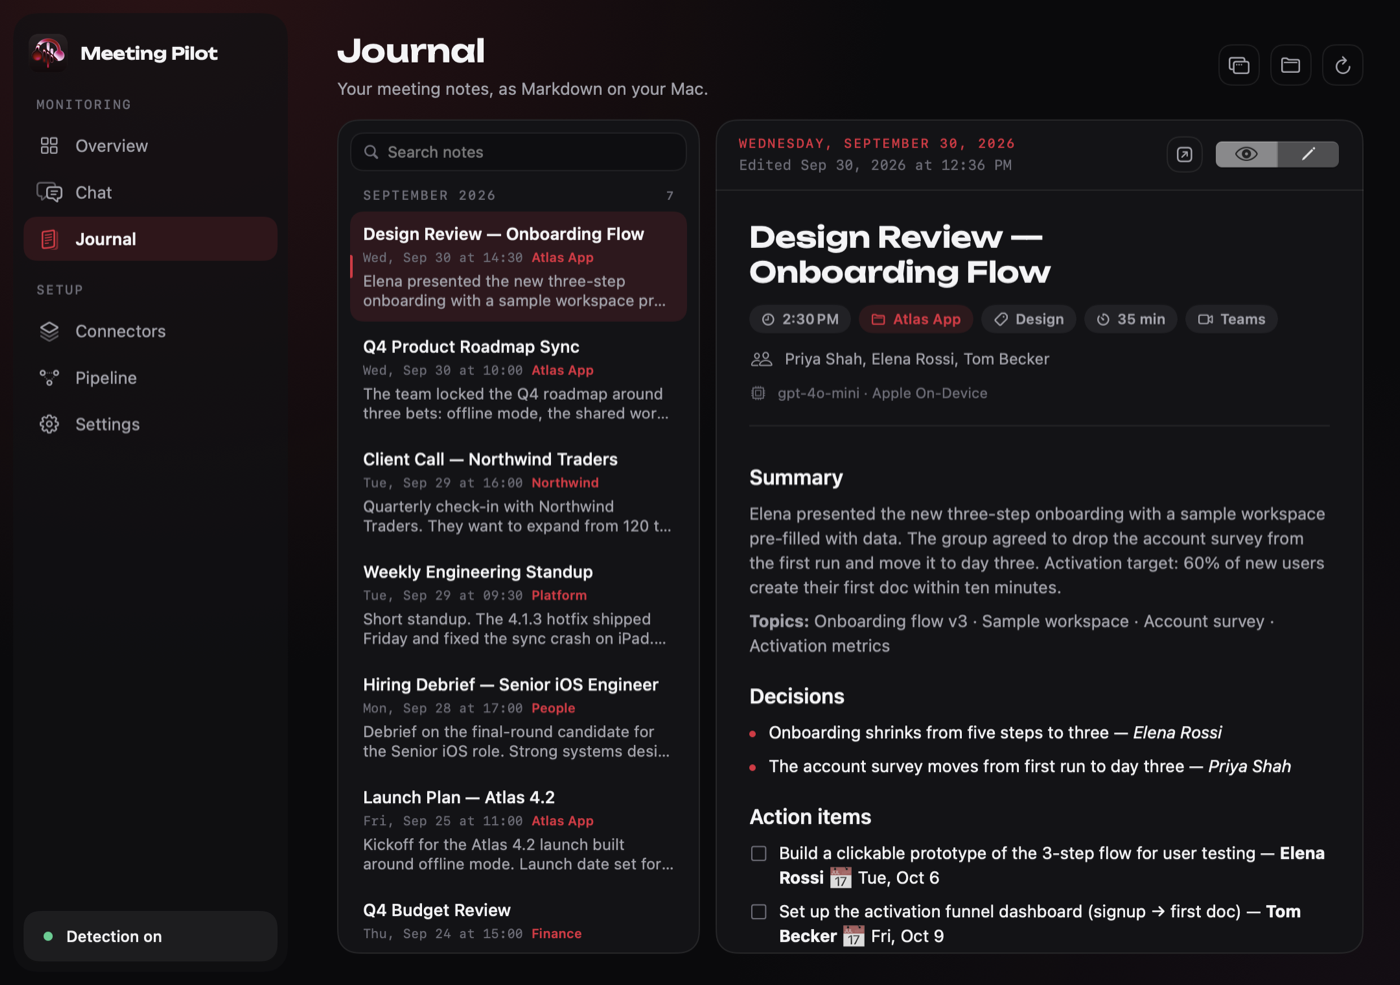
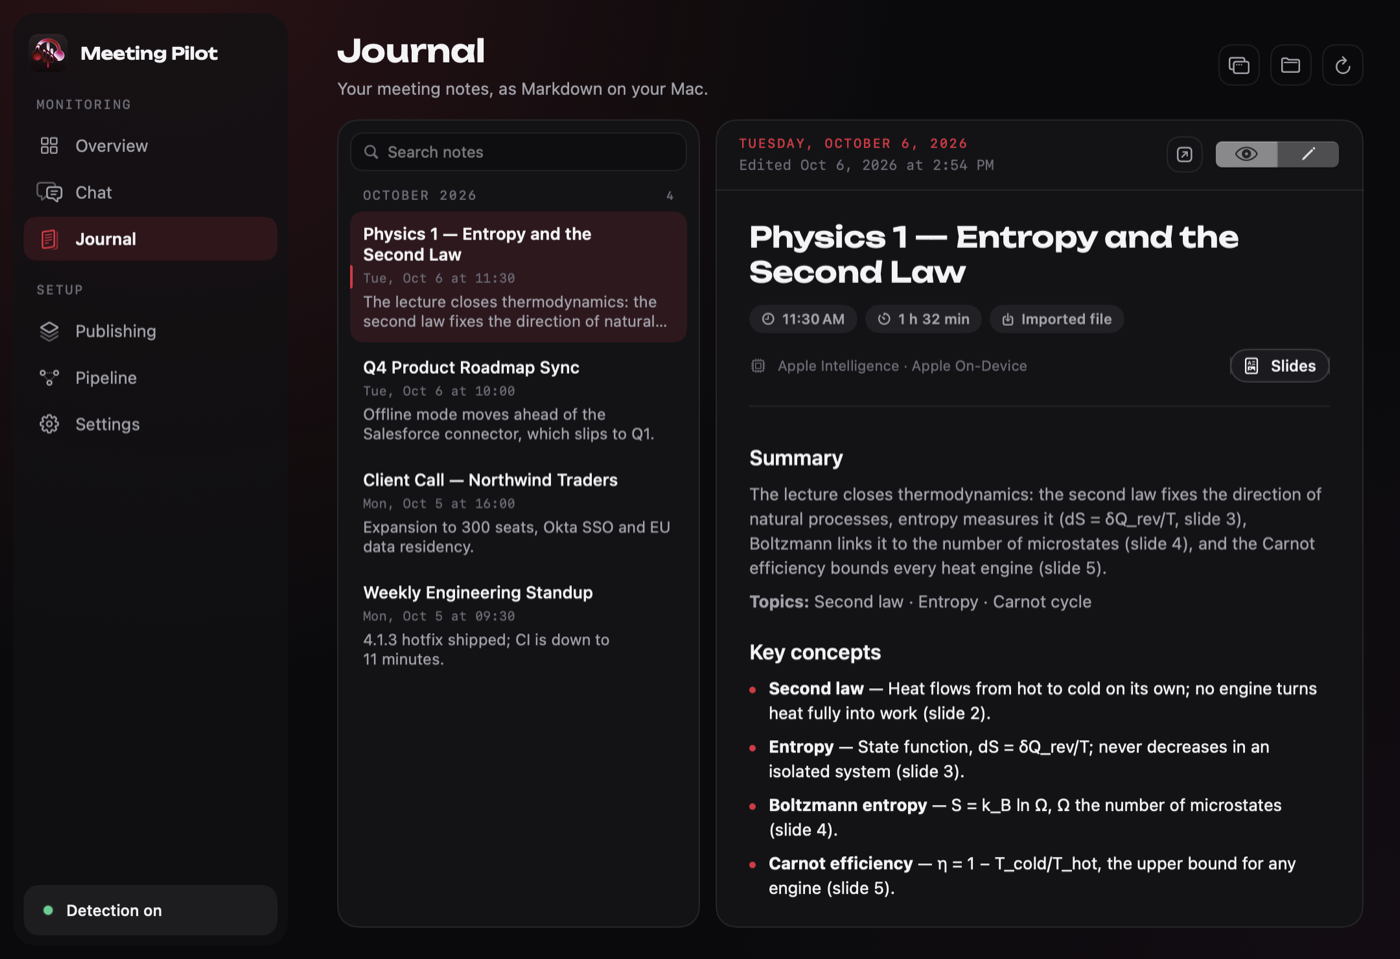
Show lectures, slides and imports in the README
New screenshots, drawn with sample data, for the student profile, slides next
to the transcript, importing files and the recording audio source; the
overview, journal and pipeline ones are refreshed and Connectors is now
Publishing. The changelog notes Apple transcription with FluidAudio speakers
and the Parakeet download.

diff --git a/README.md b/README.md
@@ -22,7 +22,7 @@ curl -fsSL https://raw.githubusercontent.com/mard4/meeting-pilot/main/macos/Meet
 ```
 
 <p align="center">
-  Local-first meeting notes for macOS. From call to notes to answers.
+  Local-first meeting and lecture notes for macOS. From call or class to notes to answers.
 </p>
 <table align="center">
   <tr>
@@ -47,9 +47,9 @@ curl -fsSL https://raw.githubusercontent.com/mard4/meeting-pilot/main/macos/Meet
 
 <h2 align="center">Join the call. That's it.</h2>
 
-<!-- <p align="center">Record the call. Get the notes. Ask anything.</p> -->
+<p align="center">Teams calls are detected and recorded on their own. Lectures, in-person meetings and files made elsewhere take one click.</p>
 
-<td width="60%" align="center"><img src="docs/assets/readme/overview.png" alt="Overview with today's meetings, their project, topic and publish targets" width="100%" /></td>
+<p align="center"><img src="docs/assets/readme/overview.png" alt="Overview with Import and Record, the processing pipeline and today's meetings with their project, topic and publish targets" width="100%" /></p>
 
 <table align="center">
   <tr>
@@ -85,11 +85,39 @@ curl -fsSL https://raw.githubusercontent.com/mard4/meeting-pilot/main/macos/Meet
   </tr>
   <tr>
     <td width="40%" valign="middle">
+      <h3>STUDENT, PROFESSIONAL OR BOTH</h3>
+      Lectures become study notes: key concepts, assignments and deadlines, exam hints, review questions. Meetings keep decisions, action items and risks. Doing both? The title decides.
+    </td>
+    <td width="60%" align="center"><img src="docs/assets/readme/profile.png" alt="Welcome tour asking whether you are a student, a professional or both, with the sections each kind of note gets" width="100%" /></td>
+  </tr>
+  <tr>
+    <td width="60%" align="center"><img src="docs/assets/readme/lecture-slides.png" alt="A lecture in the Journal, its transcript split slide by slide next to the slides PDF" width="100%" /></td>
+    <td width="40%" valign="middle">
+      <h3>SLIDES NEXT TO THE TRANSCRIPT</h3>
+      Add the lecture's PDF: every part of the transcript is matched to its slide, on your Mac and without a model. The summary cites them as <i>(slide 3)</i>.
+    </td>
+  </tr>
+  <tr>
+    <td width="40%" valign="middle">
+      <h3>IMPORT</h3>
+      Lecture videos, podcasts, webinars recorded elsewhere. Drop them on the window or press <kbd>⌘I</kbd>; the original stays where it is.
+    </td>
+    <td width="60%" align="center"><img src="docs/assets/readme/import.png" alt="Import sheet with a lecture video and its slides, a podcast, and an unsupported file" width="80%" /></td>
+  </tr>
+  <tr>
+    <td width="60%" align="center"><img src="docs/assets/readme/record-source.png" alt="Record prompt with the microphone, Mac audio and both options" width="100%" /></td>
+    <td width="40%" valign="middle">
+      <h3>ANY ROOM</h3>
+      Not on a call? Record the microphone for a classroom, the Mac audio for an online lecture, or both.
+    </td>
+  </tr>
+  <tr>
+    <td width="40%" valign="middle">
       <!-- <sub>JOURNAL</sub> -->
       <h3>JOURNAL</h3>
       Built-in, searchable, plain Markdown.
     </td>
-    <td width="60%" align="center"><img src="docs/assets/readme/journal.png" alt="Local Journal with searchable meeting notes" width="100%" /></td>
+    <td width="60%" align="center"><img src="docs/assets/readme/journal.png" alt="Local Journal with searchable meeting and lecture notes" width="100%" /></td>
   </tr>
 </table>
 
@@ -123,7 +151,7 @@ curl -fsSL https://raw.githubusercontent.com/mard4/meeting-pilot/main/macos/Meet
     <th align="left">Capture</th>
     <td align="center"><img src="docs/assets/readme/icons/apple.svg" width="40" alt="" /><br /><sub>Apple On-Device</sub></td>
     <td align="center"><img src="docs/assets/readme/icons/logos/teams.png" width="40" alt="" /><br /><sub>Microsoft Teams</sub></td>
-    <td align="center"><img src="docs/assets/readme/icons/logos/fluidaudio.png" width="40" alt="" /><br /><sub>FluidAudio</sub></td>
+    <td align="center"><img src="docs/assets/readme/icons/logos/fluidaudio.png" width="40" alt="" /><br /><sub>FluidAudio · speakers</sub></td>
     <td align="center"><img src="docs/assets/readme/icons/logos/slack.png" width="40" alt="" /><br /><sub>Slack · <i>soon</i></sub></td>
   </tr>
 </table>
@@ -134,22 +162,22 @@ curl -fsSL https://raw.githubusercontent.com/mard4/meeting-pilot/main/macos/Meet
 
 1. **[Download the `.dmg`](https://github.com/mard4/meeting-pilot/releases/latest/download/MeetingPilot.dmg)** → drag to `Applications` (or use the `curl` one-liner above).
 2. Blocked on first launch? **System Settings → Privacy & Security → Open Anyway**. Once.
-3. Approve the permissions below, as they're asked.
+3. A short welcome tour asks whether you study, work or both, then the permissions below, as they're needed.
 
-<sub>macOS 14+. Apple Intelligence summaries need macOS 26+; older Macs use a local or API model.</sub>
+<sub>macOS 14+. On macOS 26+ Apple transcribes and FluidAudio labels the speakers, and Apple Intelligence can write the summaries. Older Macs download the Parakeet speech model (~460 MB) on first use and summarize with a local or API model.</sub>
 
 <table>
   <tr>
-    <td align="center" width="50%"><img src="docs/assets/readme/connectors.png" alt="Connectors: Notion, Obsidian, Apple Notes and the local Journal" width="100%" /><br /><sub><b>Connectors</b> · where notes go, which sections they include</sub></td>
-    <td align="center" width="50%"><img src="docs/assets/readme/pipeline.png" alt="Pipeline: recorder, transcription and summary provider" width="100%" /><br /><sub><b>Pipeline</b> · recorder, transcription, summary model</sub></td>
+    <td align="center" width="50%"><img src="docs/assets/readme/publishing.png" alt="Publishing: Notion, Obsidian, Apple Notes and the local Journal, plus summary template, prompt and glossary" width="100%" /><br /><sub><b>Publishing</b> · where notes go, what they include</sub></td>
+    <td align="center" width="50%"><img src="docs/assets/readme/pipeline.png" alt="Pipeline: built-in recorder and audio source" width="100%" /><br /><sub><b>Pipeline</b> · recorder, audio source, transcription, summary model</sub></td>
   </tr>
 </table>
 
 <details>
-<summary><b>Connector details</b></summary>
+<summary><b>Publishing details</b></summary>
 
-- **Notion**: connect your workspace and pick a parent page. Meeting Pilot reuses a matching table or page if one exists; otherwise it creates one page with one table. On first publish it adds the columns it needs (`Date`, `Project`, `Tema`, `Participants`, `Duration`, `Source`, `Status`, `Model`, `Language`, `Session ID`). Existing columns are never renamed or retyped.
-- **Obsidian**: choose your vault; notes go into a `Meeting Pilot` folder named `{date} - {title}.md`.
+- **Notion**: connect your workspace and pick a parent page. Meeting Pilot reuses a matching table or page if one exists; otherwise it creates one page with one table. On first publish it adds the columns it needs (`Date`, `Project`, `Tema`, `Participants`, `Duration`, `Source`, `Status`, `Model`, `Language`, `Session ID`). Once you study, a `Type` column (Work / Study) is added too. Existing columns are never renamed or retyped. Lectures with slides get the PDF and one section per slide.
+- **Obsidian**: choose your vault; notes go into a `Meeting Pilot` folder named `{date} - {title}.md`; each part of a lecture links to its slide page.
 - **Summary model**: Apple Intelligence (default where available), a local model (oMLX, Ollama, LM Studio), or an OpenAI-compatible API key. Only the API option sends transcript text off the Mac.
 
 </details>
@@ -189,7 +217,7 @@ curl -fsSL https://raw.githubusercontent.com/mard4/meeting-pilot/main/macos/Meet
 | 🎙 **Audio & transcripts** | Recorded and transcribed on your Mac. Never uploaded. |
 | ✨ **Summaries** | Apple Intelligence & local models run on-device. API mode sends transcript text only to the provider you choose. |
 | 🏷 **Meeting metadata** | From the Teams window (Accessibility), on-device OCR as fallback, plus Calendar / Outlook if enabled. |
-| 💾 **Storage** | Archived in `~/TeamsMeetings`; published only to destinations you pick. |
+| 💾 **Storage** | Archived in `~/TeamsMeetings`; published only to destinations you pick. Imported files stay where they are. |
 | 🔗 **Notion connect** | One-click OAuth goes through a stateless [Cloudflare Worker](docs/cloudflare/meeting-pilot-oauth.js) that never sees your meetings. Or paste your own token. |
 
 **macOS permissions** — asked only when a feature needs them:

diff --git a/docs/CHANGELOG.md b/docs/CHANGELOG.md
@@ -18,6 +18,9 @@ The format is based on [Keep a Changelog](https://keepachangelog.com/en/1.1.0/).
 - Notion pages with more than 100 blocks are completed in further requests instead of being cut off.
 - Transcripts longer than one summary request (about 1 h 45 of speech) are condensed part by part before summarizing instead of being cut off, and transcription and Apple Intelligence time limits now grow with the length of the recording.
 
+### Changed
+- From macOS 26 Apple's on-device recognizer transcribes by default and FluidAudio labels the speakers, in its offline mode, which tells quickly alternating voices apart far better. The Parakeet speech model (~460 MB) is no longer bundled: the FluidAudio card downloads it on request, and older Macs fetch it on their own. The app is about 150 MB instead of 650 MB.
+
 ### Fixed
 - Recordings made outside a call no longer stop by themselves when Teams releases the microphone, and no longer take the title and participants of an earlier Teams call.
 
